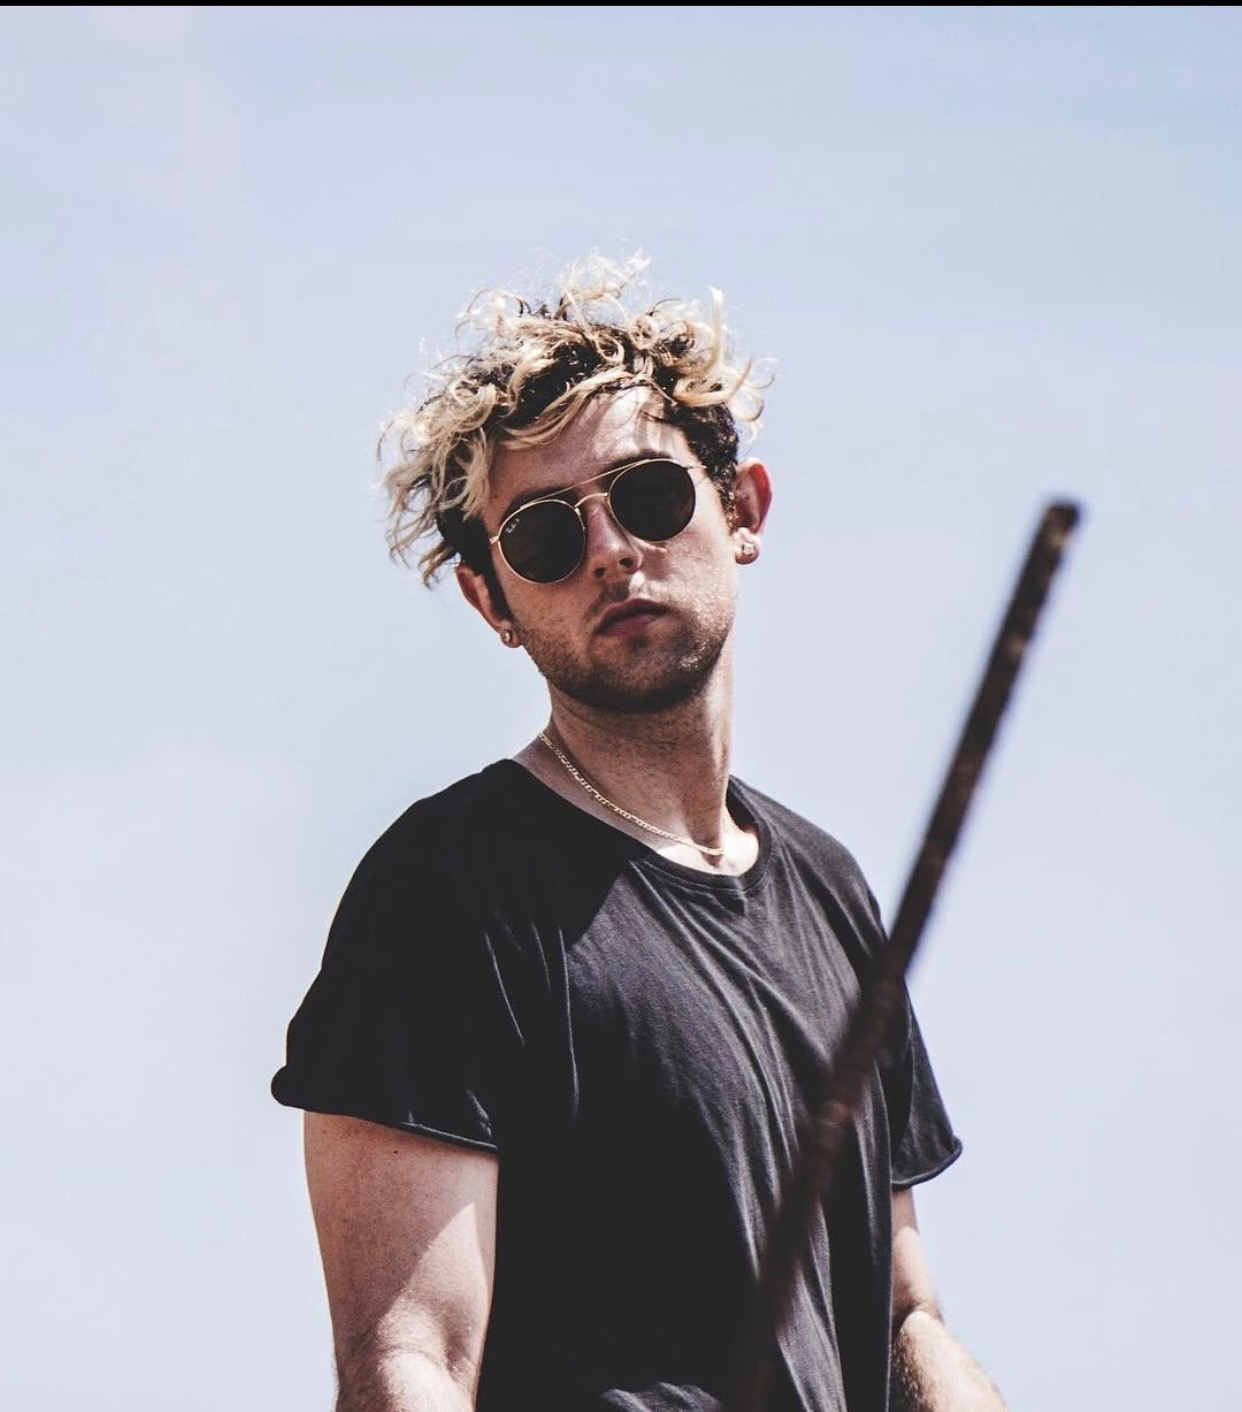
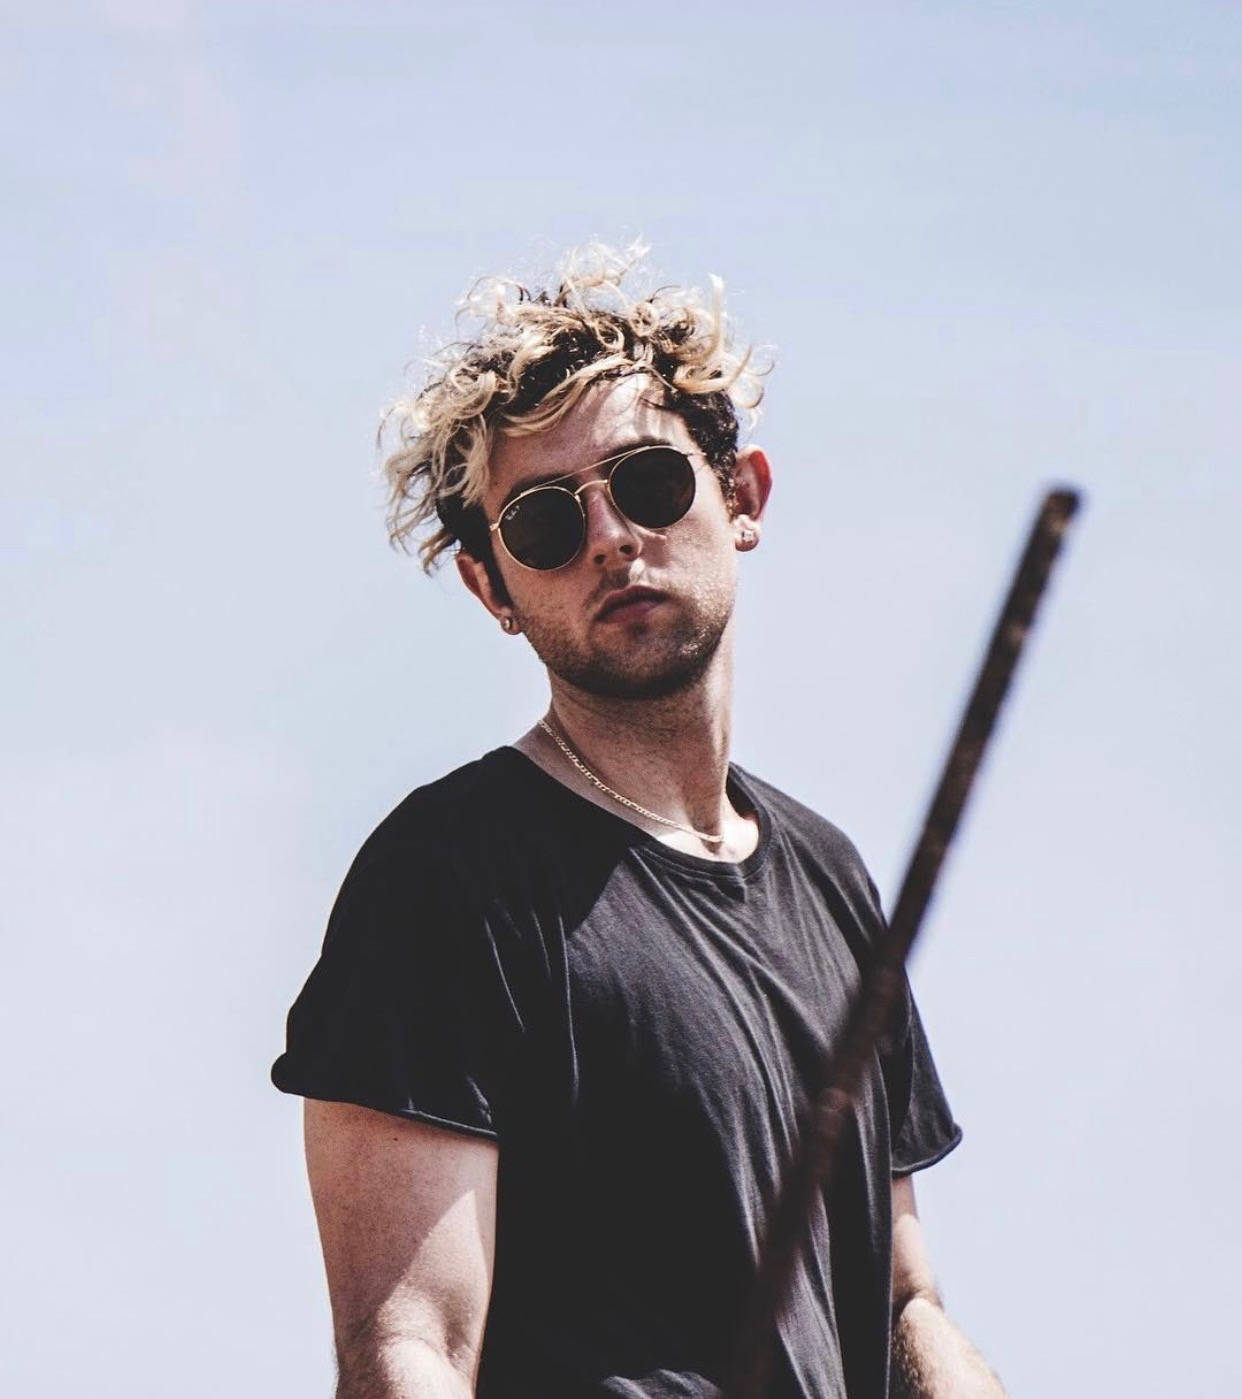
making images responsive

diff --git a/styles.css b/styles.css
@@ -257,8 +257,27 @@ footer a {
   padding: 1% 2% 0% 2%;
 }
 /* PORTRAIT PAGE */
-.senior {
-  background-size: contain;
+.family p {
+  text-align: center;
+  font-size: 50px;
+}
+#onekid {
+  background-image: url("images/fam1.jpeg");
+  background-repeat: no-repeat;
+  background-size: 100%;
+  display: block;
+  height: 50em;
+  margin: 5% 3% 4% 3%;
+  width: auto;
+}
+#stillgood {
+
+}
+#toomany {
+
+}
+#dabois {
+
 }
 .senior p {
   text-align: center;
@@ -266,28 +285,29 @@ footer a {
 }
 #facingright {
   background-image: url("images/headshot2.jpeg");
+  background-repeat: no-repeat;
   background-size: 110%;
-  display: inline-flex;
+  display: inline-block;
   height: 40em;
   margin: 0% 3% 0% 4.5%;
-  width: 25em;
+  width: 28%;
 }
 #overshoulder {
   background-image: url("images/headshot3.jpeg");
-  background-position: center;
+  background-repeat: no-repeat;
   background-size: 160%;
-  display: inline-flex;
+  display: inline-block;
   height: 40em;
-  width: 25em;
+  width: 28%;
 }
 #somedude {
   background-image: url("images/headshot4.jpeg");
-  background-position: center;
+  background-repeat: no-repeat;
   background-size: 150%;
-  display: inline-flex;
+  display: inline-block;
   height: 40em;
   margin: 0% 4% 0% 3%;
-  width: 25em;
+  width: 28%;
 }
 /* SMALL SCREENS, TABLETS, ETC. */
 @media screen and (max-width: 1199px) {

diff --git a/pages/portraits.html b/pages/portraits.html
@@ -41,7 +41,11 @@
   </section>
   <section class="portrait-types">
     <div class="family">
-      <p>family</p>
+      <p>f a m i l y</p>
+      <div id="onekid"></div>
+      <div id="stillgood"></div>
+      <div id="toomany"></div>
+      <div id="dabois"></div>
     </div>
     <div class="senior">
       <p>s e n i o r</p>
